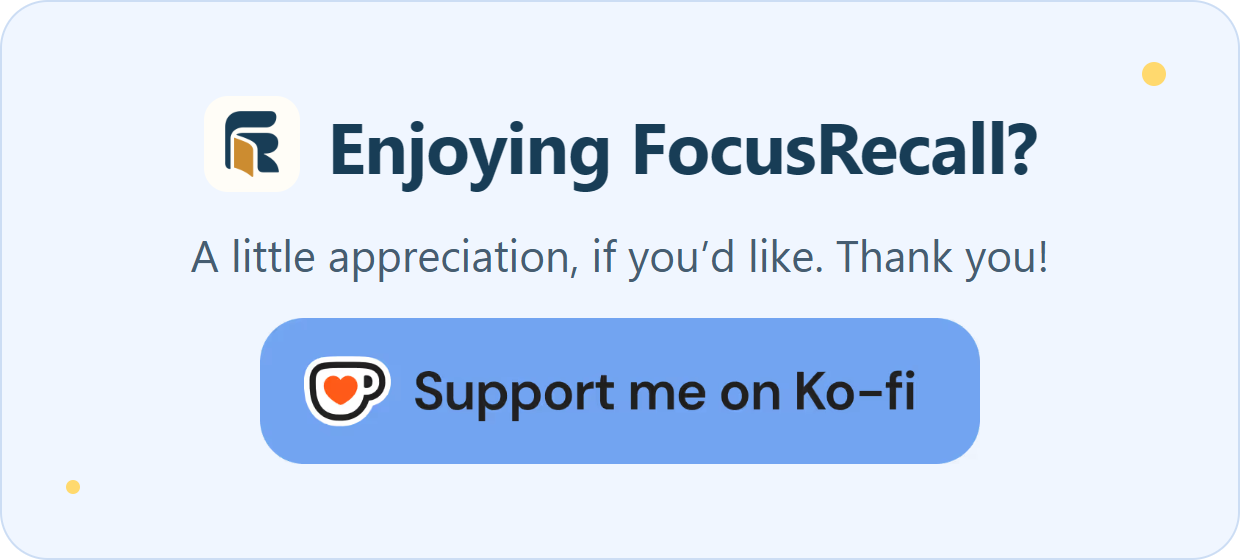
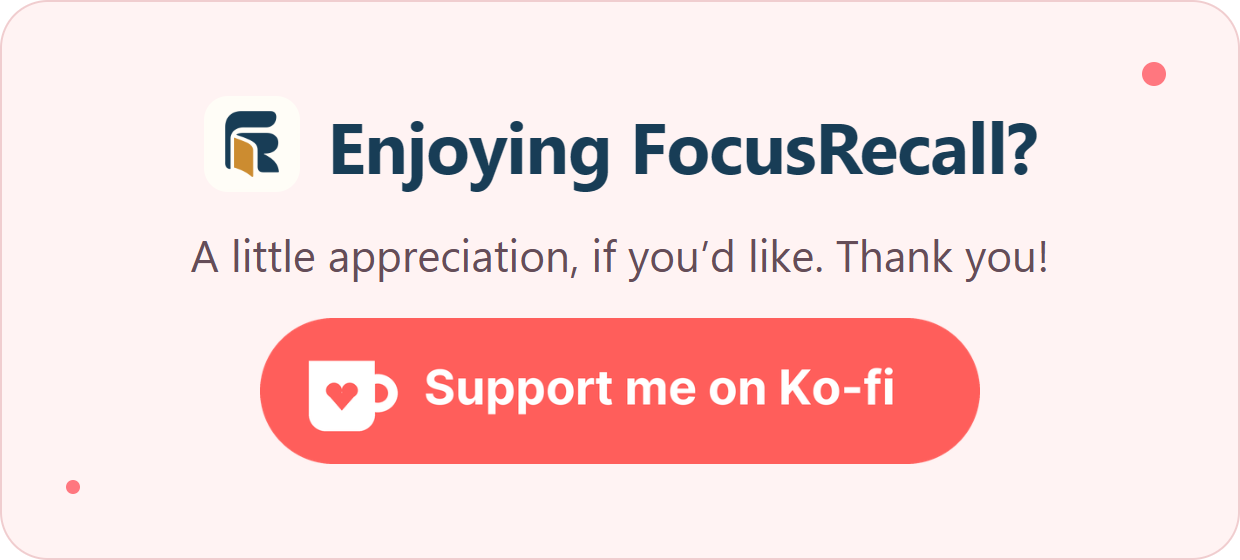
Restore coral-pink Ko-fi style with appreciation wording

diff --git a/assets/support-kofi-banner.html b/assets/support-kofi-banner.html
@@ -2,12 +2,12 @@
 <!-- Banner source: 620 x 280 CSS pixels, rendered at 2x. Existing Ko-fi button artwork is scaled proportionally, without modification. -->
 <html lang="en"><head><meta charset="utf-8"><style>
 *{box-sizing:border-box}html,body{margin:0;width:620px;height:280px;background:transparent}
-:root{--bg:#F0F6FF;--edge:#CCDDF4;--ink:#183D56;--muted:#465D71;--warm:#FFD96E}
-body.dark{--bg:#183D56;--edge:#46718B;--ink:#FFFDF7;--muted:#D6E4F0;--warm:#FFD96E}
+:root{--bg:#FFF3F3;--edge:#F0CDCF;--ink:#183D56;--muted:#654D58;--warm:#FF777F}
+body.dark{--bg:#30232D;--edge:#77505E;--ink:#FFF9F6;--muted:#E8CDD4;--warm:#FF8E97}
 .card{width:620px;height:280px;border:1.5px solid var(--edge);border-radius:24px;background:var(--bg);font-family:"Segoe UI",Arial,sans-serif;display:flex;flex-direction:column;align-items:center;justify-content:center;gap:17px;position:relative;overflow:hidden}
 .heading{display:flex;align-items:center;gap:14px}.mark{width:48px;height:48px;border-radius:12px;background:#FFFDF7}
 h1{font-size:36px;line-height:1.2;font-weight:650;letter-spacing:-.6px;color:var(--ink);margin:0}
 p{font-size:22px;line-height:1.3;color:var(--muted);margin:0}
 .button{width:360px;height:auto;display:block;position:relative}
 .spark{position:absolute;background:var(--warm);border-radius:50%;width:12px;height:12px;top:30px;right:36px}.spark.two{width:7px;height:7px;left:32px;top:auto;bottom:32px}
-</style></head><body><div class="card"><i class="spark"></i><i class="spark two"></i><div class="heading"><img class="mark" src="focusrecall-icon.png" alt=""><h1>Enjoying FocusRecall?</h1></div><p>A little appreciation, if you’d like. Thank you!</p><img class="button" src="kofi-support.png" alt="Support me on Ko-fi"></div><script>if(new URLSearchParams(location.search).get('theme')==='dark')document.body.classList.add('dark')</script></body></html>
+</style></head><body><div class="card"><i class="spark"></i><i class="spark two"></i><div class="heading"><img class="mark" src="focusrecall-icon.png" alt=""><h1>Enjoying FocusRecall?</h1></div><p>A little appreciation, if you’d like. Thank you!</p><img class="button" src="support-kofi.png" alt="Support me on Ko-fi"></div><script>if(new URLSearchParams(location.search).get('theme')==='dark')document.body.classList.add('dark')</script></body></html>
